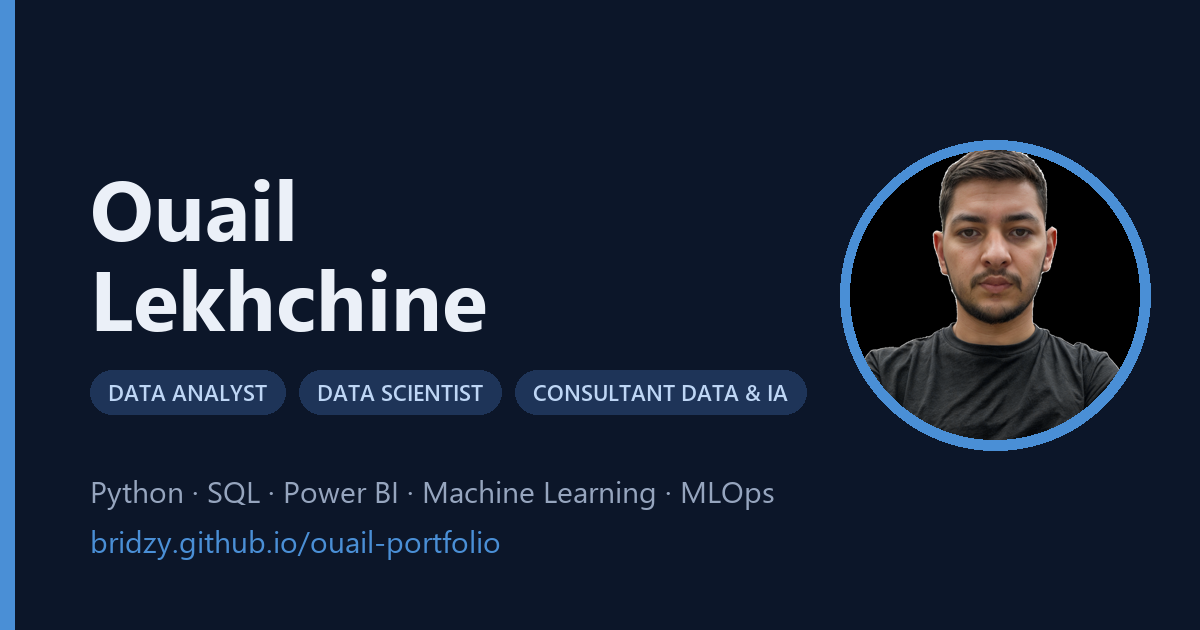
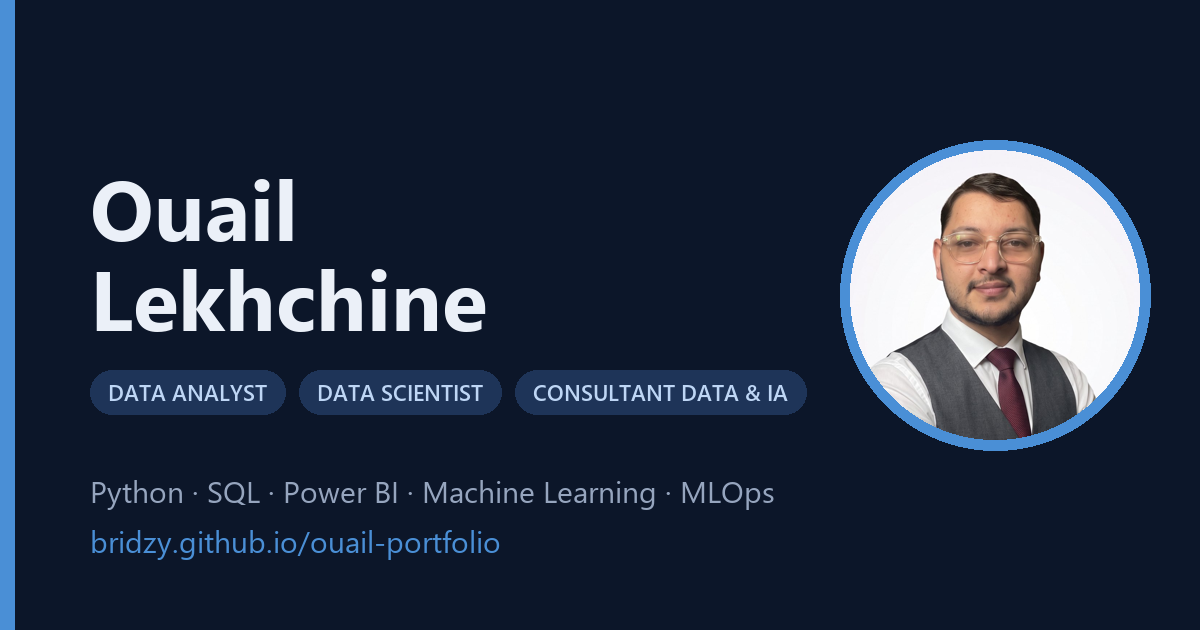
style: pro navy backdrop and new profile photo
- Fixed background with soft blue glows and a fine masked grid (no animation)
- Slightly translucent cards so the backdrop shows through
- Replace hero photo (assets/profile-photo.jpg) and regenerate OG image

Changed region(s): [[0.7092, 0.2413, 0.9558, 0.6937]]

diff --git a/style.css b/style.css
@@ -3,11 +3,17 @@
    ============================================ */
 :root {
     /* Colors */
-    --bg: #0c1d3a;
+    --bg: #0a1830;
     --bg-elev: #0f1a2e;
-    --bg-card: #111d33;
-    --bg-card-hover: #15233e;
-    --bg-subtle: #14213a;
+    --bg-card: rgba(17, 35, 68, 0.78);
+    --bg-card-hover: rgba(21, 42, 80, 0.85);
+    --bg-subtle: rgba(255, 255, 255, 0.05);
+
+    /* Background glows */
+    --glow-1: rgba(64, 132, 230, 0.22);
+    --glow-2: rgba(40, 90, 200, 0.18);
+    --glow-3: rgba(91, 155, 230, 0.10);
+    --grid-line: rgba(140, 180, 240, 0.055);
 
     --text-primary: #e6ebf3;
     --text-secondary: #b0bccf;
@@ -70,6 +76,41 @@ body {
     overflow-x: hidden;
     -webkit-font-smoothing: antialiased;
     -moz-osx-font-smoothing: grayscale;
+}
+
+/* Fixed backdrop: soft blue glows + fine grid. Content scrolls over it;
+   nothing is animated. */
+body::before,
+body::after {
+    content: '';
+    position: fixed;
+    inset: 0;
+    z-index: 0;
+    pointer-events: none;
+}
+
+body::before {
+    background:
+        radial-gradient(ellipse 55% 45% at 88% 8%, var(--glow-1), transparent 70%),
+        radial-gradient(ellipse 50% 50% at 5% 95%, var(--glow-2), transparent 70%),
+        radial-gradient(ellipse 40% 35% at 45% 55%, var(--glow-3), transparent 75%),
+        linear-gradient(180deg, #0b1b36 0%, var(--bg) 55%, #081428 100%);
+}
+
+body::after {
+    background-image:
+        linear-gradient(var(--grid-line) 1px, transparent 1px),
+        linear-gradient(90deg, var(--grid-line) 1px, transparent 1px);
+    background-size: 56px 56px;
+    -webkit-mask-image: radial-gradient(ellipse 85% 70% at 50% 30%, #000 30%, transparent 100%);
+    mask-image: radial-gradient(ellipse 85% 70% at 50% 30%, #000 30%, transparent 100%);
+}
+
+.hero,
+.section,
+.footer {
+    position: relative;
+    z-index: 1;
 }
 
 img {

diff --git a/index.html b/index.html
@@ -9,7 +9,7 @@
     <meta name="keywords"
         content="Data Analyst, Data Scientist, Consultant Data, IA, Python, Power BI, SQL, Machine Learning, MLOps, Portfolio">
     <meta name="author" content="Ouail Lekhchine">
-    <meta name="theme-color" content="#0c1d3a">
+    <meta name="theme-color" content="#0a1830">
     <title>Ouail Lekhchine | Data Analyst · Data Scientist</title>
 
     <!-- Open Graph / LinkedIn -->
@@ -123,7 +123,7 @@
             </div>
             <div class="hero-visual">
                 <div class="hero-avatar-wrapper">
-                    <img src="assets/profile-avatar.png" alt="Ouail Lekhchine" class="hero-avatar">
+                    <img src="assets/profile-photo.jpg" alt="Ouail Lekhchine" class="hero-avatar">
                 </div>
             </div>
         </div>

diff --git a/CLAUDE.md b/CLAUDE.md
@@ -16,12 +16,12 @@ The visitor counter fetches from GoatCounter, so open via a server rather than `
 
 ## Architecture
 
-- `index.html` — all content. Sections are `<section id="..." class="section ...">`: hero (no `.section` class), about, experience, projects, skills, education (includes certifications), interests, contact, then the footer. Headings use a numbered `<span class="section-number">NN.</span>`; inserting/removing a section means renumbering the following ones. The page background is one solid blue (`--bg`), with no gradients, bands or scroll animations; keep it static.
+- `index.html` — all content. Sections are `<section id="..." class="section ...">`: hero (no `.section` class), about, experience, projects, skills, education (includes certifications), interests, contact, then the footer. Headings use a numbered `<span class="section-number">NN.</span>`; inserting/removing a section means renumbering the following ones. The page background is a fixed navy backdrop drawn by `body::before` (blue glows) and `body::after` (masked grid) in `style.css`; `.hero`, `.section` and `.footer` sit above it with `z-index: 1`. It does not animate.
 - `script.js` — one `DOMContentLoaded` handler calls `init*()` functions. Behavior is wired by ids/classes in the HTML:
   - `initActiveNavLink()` highlights nav links by matching `#hero, .section` ids against `href="#id"`.
-- `style.css` — all colors are CSS variables in `:root`. The site has a single fixed navy theme (no light/dark toggle) and nothing moves: no background animation, scroll reveals, hover lifts or animated counters — keep it static. Breakpoints: 1024px, 768px, 480px at the end of the file.
+- `style.css` — all colors are CSS variables in `:root`. The site has a single fixed navy theme (no light/dark toggle) and no motion: no animated background, scroll reveals, hover lifts or animated counters. Breakpoints: 1024px, 768px, 480px at the end of the file.
 - `experiences_projets_ouail.md` — source-of-truth CV text. Not loaded by the site; use it when adding or rewording content.
-- `assets/` — images, `CV_Ouail_Lekhchine.pdf` (linked by the "Télécharger mon CV" buttons; replace this file to update the CV), and `og-image.png` (1200×630 LinkedIn/Open Graph preview, referenced by absolute URL in `<head>`). Some filenames contain spaces/accents.
+- `assets/` — images (hero photo: `profile-photo.jpg`, 800×800 square crop), `CV_Ouail_Lekhchine.pdf` (linked by the "Télécharger mon CV" buttons; replace this file to update the CV), and `og-image.png` (1200×630 LinkedIn/Open Graph preview, referenced by absolute URL in `<head>`). Some filenames contain spaces/accents.
 
 ## Projects section
 
